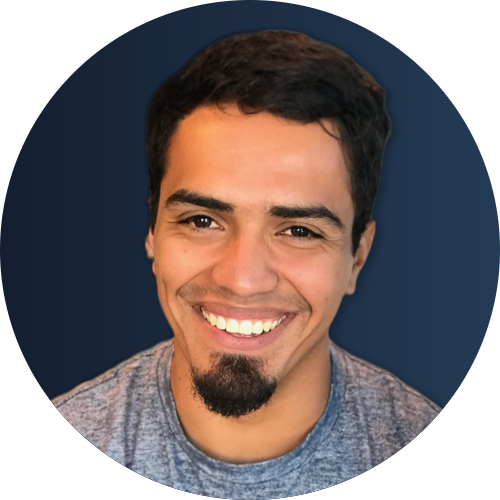
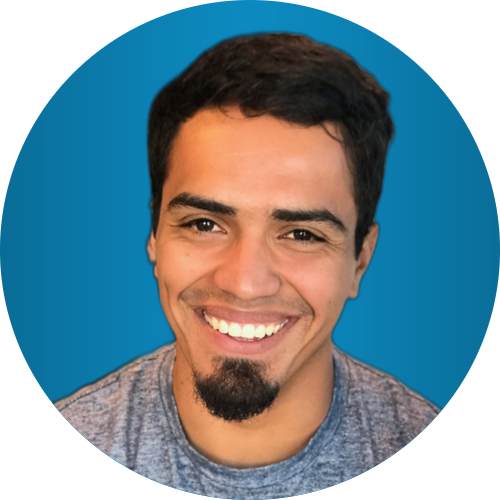
updated profile pic

diff --git a/index.html b/index.html
@@ -145,8 +145,9 @@
             <div class="container">
               <div>
                 <div class="content-center brand hero-content half">
-                  <h2 class="h1-seo animated fadeInLeft" id='h1-seo'>From idea <span class="right-arrow">&rarr;</span> to live digital product</h2>
-                  <!-- <p class="animated fadeInRight hero-sub">Hi, I'm Arturo Lopez. I can help your business develop a strong online presence.</p> -->
+                  <h2 class="h1-seo animated fadeInLeft" id='h1-seo'>
+                    From idea <span class="right-arrow">&rarr;</span> to live software product
+                  </h2>
                   <p class="animated fadeInRight hero-sub" id='h2-seo'>Develop your vision on the App store or the Web</p>
                   <!-- Direct CTA -->
                   <a class="btn btn-info btn-lg" id="home-btn"
@@ -401,7 +402,7 @@
             Don't stay behind in the digital age.
           </h2>
           <p>Make that jump for your customers and the future of your business.</p>
-          <p>Here's The Simple Website Plan to help you.</p>
+          <p>Here's The Simple Website Plan for you.</p>
           <ul class="noto">
             <li>1. Schedule a 15 min call <span class="blue-mark">&#10004;</span></li>
             <li>2. Share your goals with the app or website <span class="blue-mark">&#10004;</span></li>
